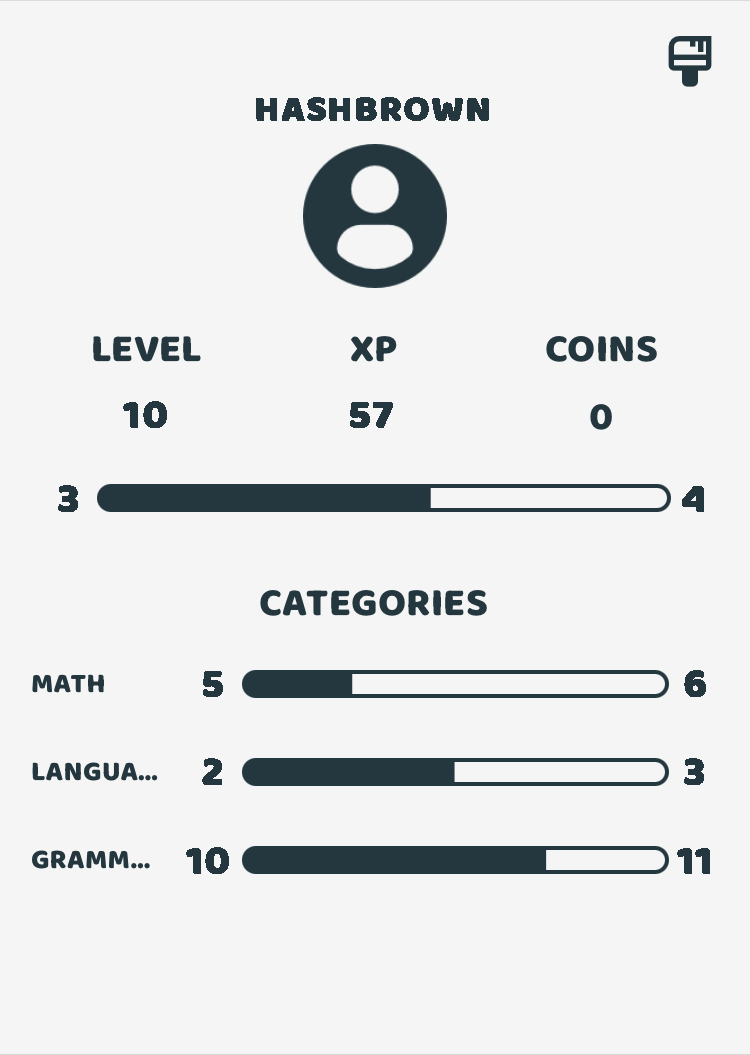
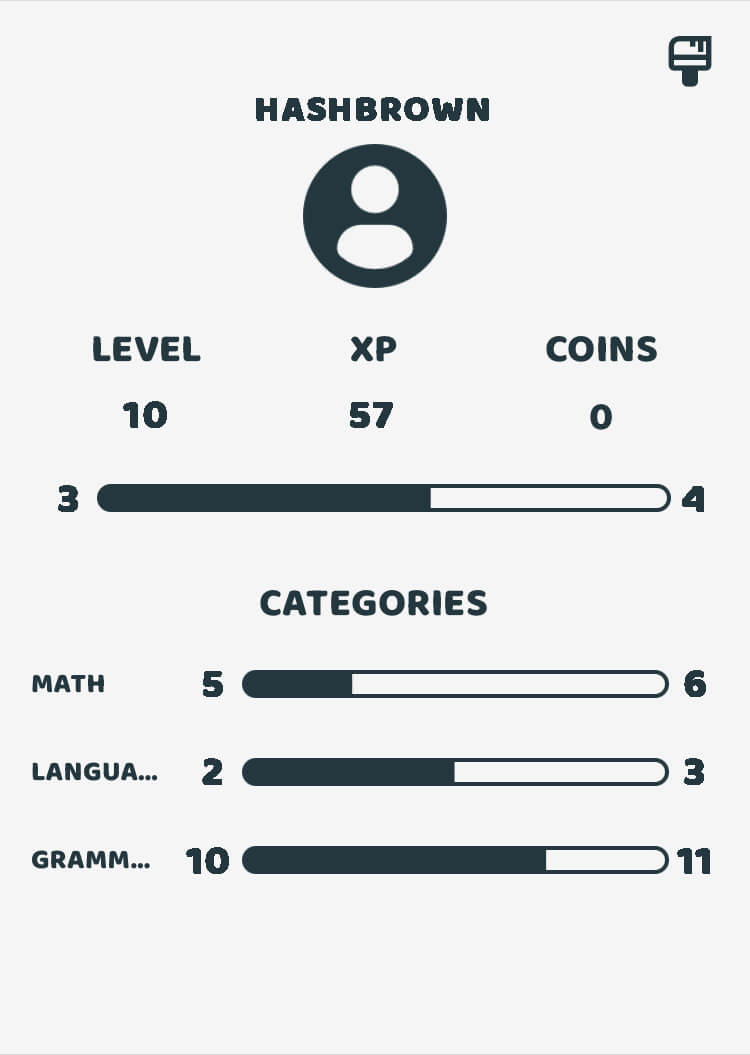
compress screen shot image sizes and remove priority loading for loading speed

diff --git a/components/Gallery.tsx b/components/Gallery.tsx
@@ -49,7 +49,7 @@ const Gallery = () => {
                     src={f.img}
                     style={{ borderRadius: '20px' }}
                     alt={f.alt}
-                    priority
+                    // priority
                   />
                 </span>
               </Zoom>}
